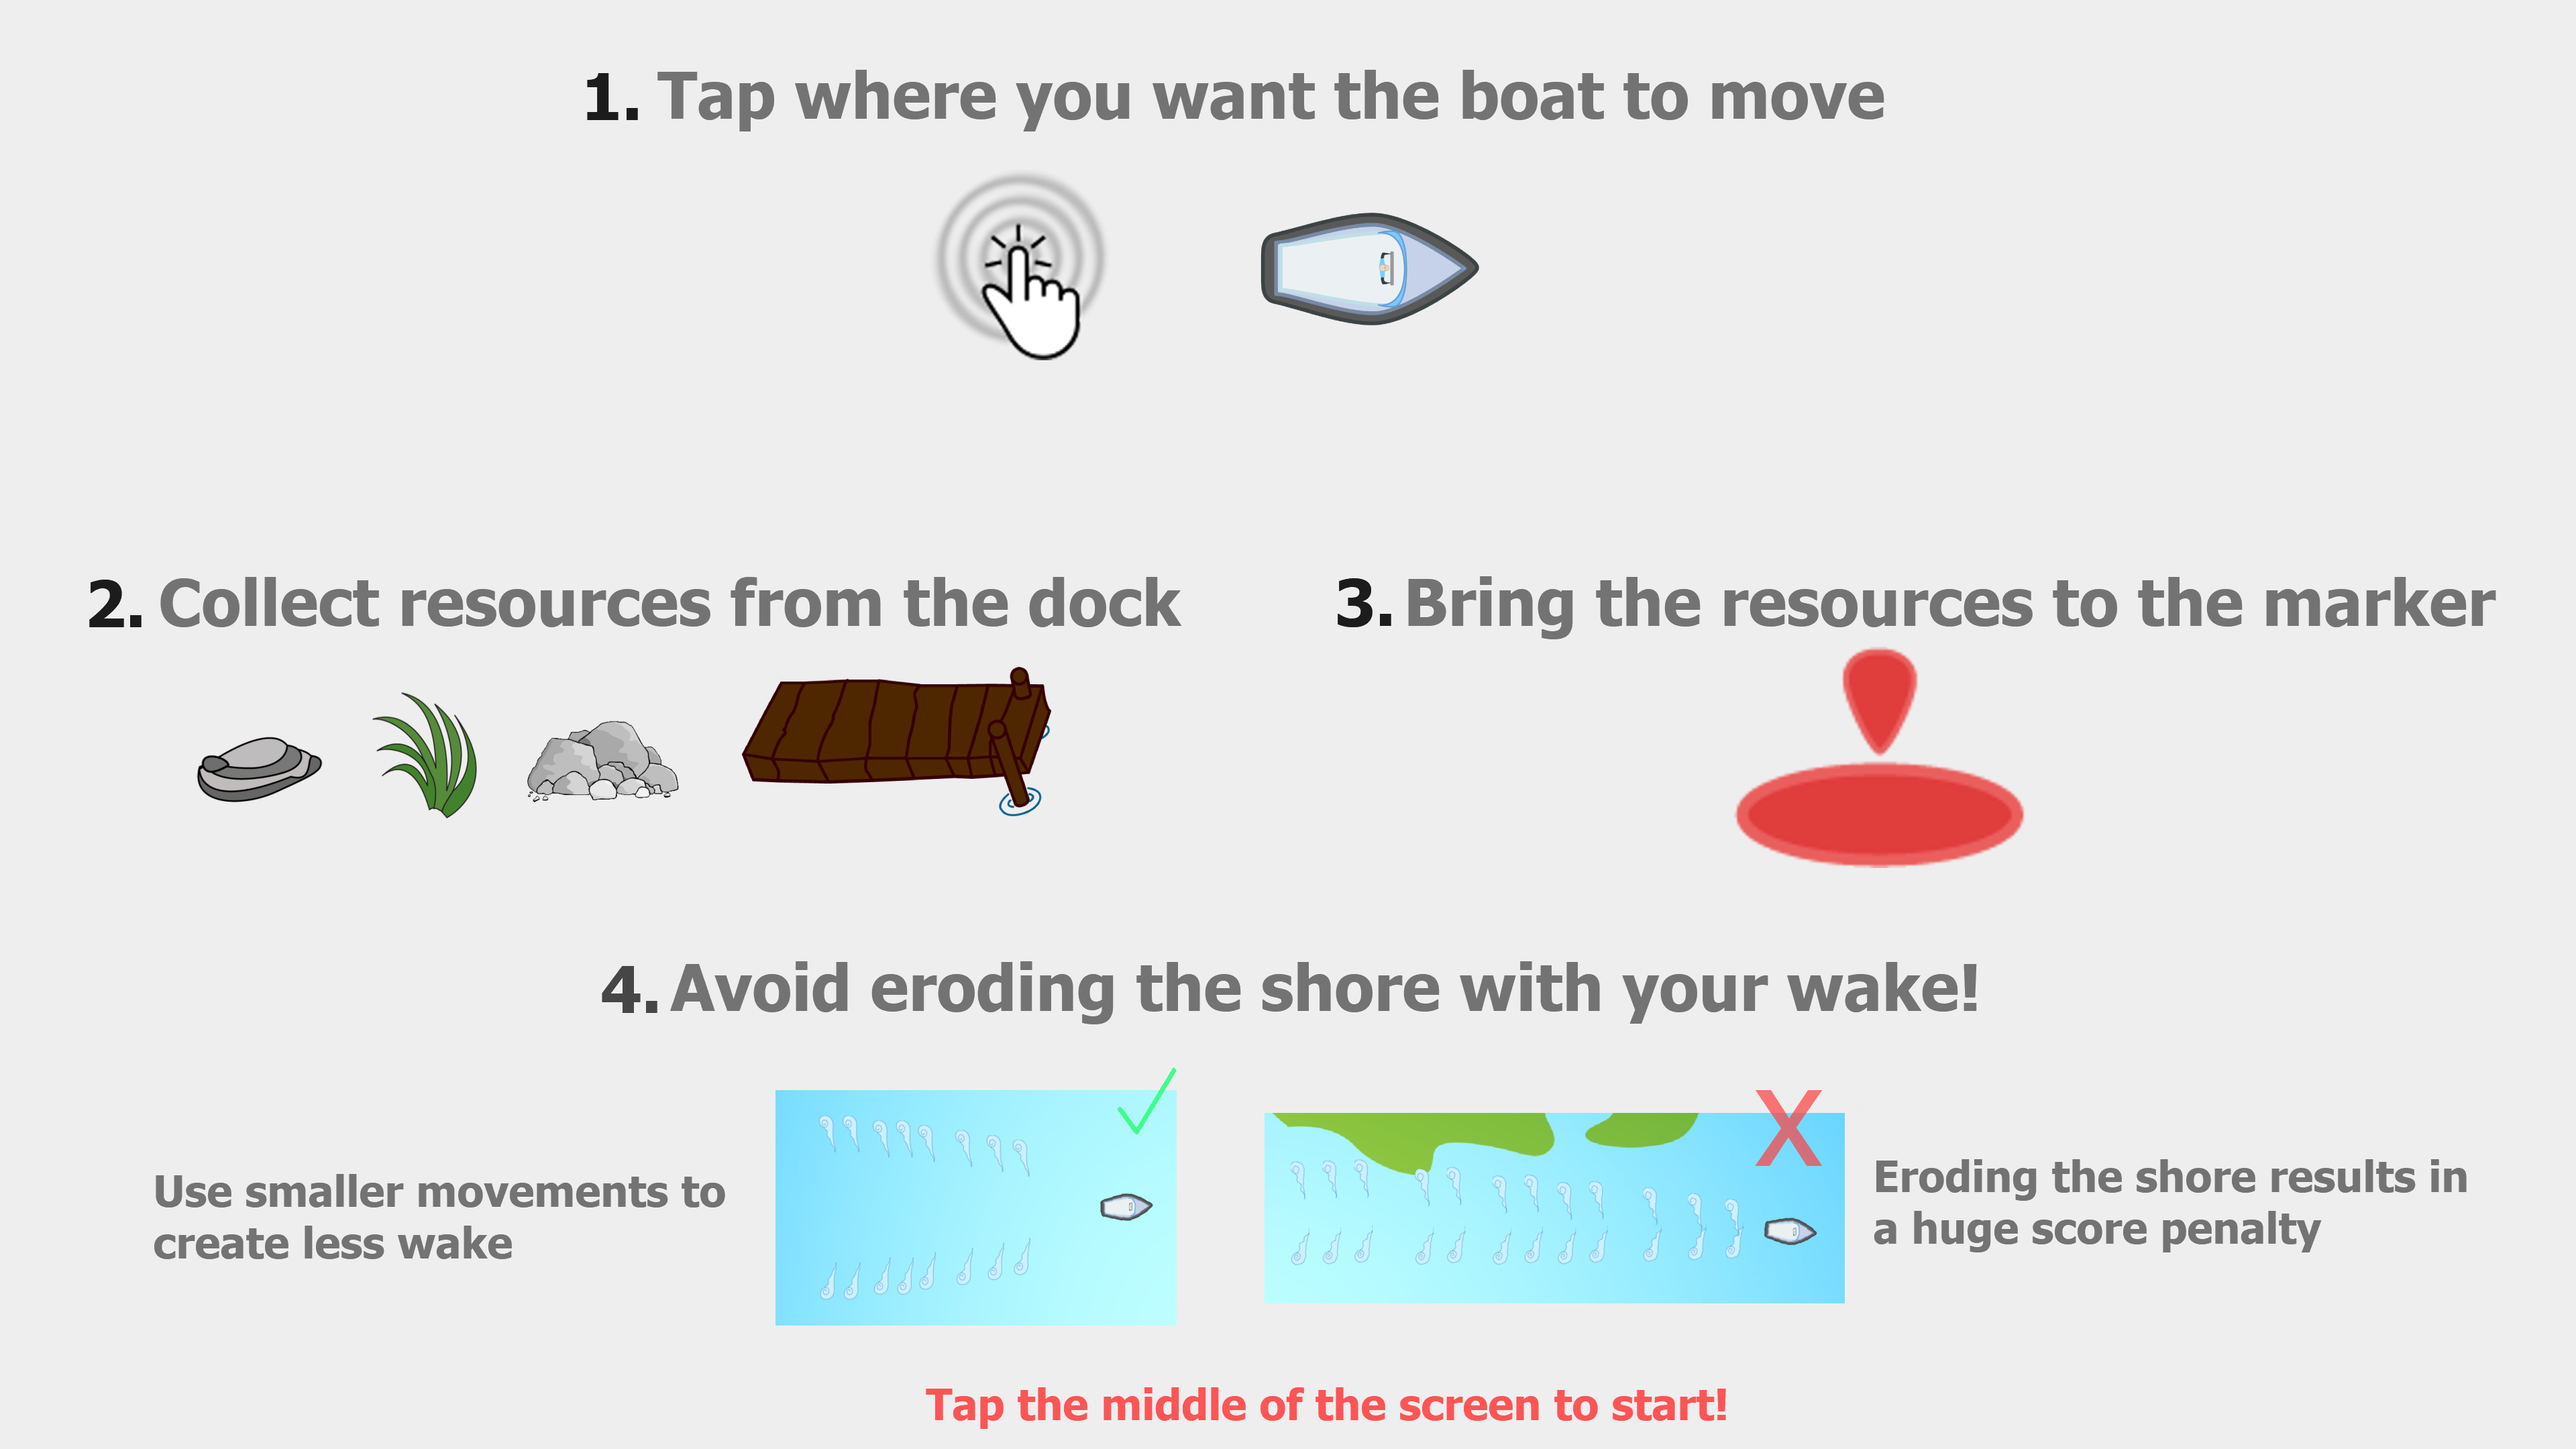
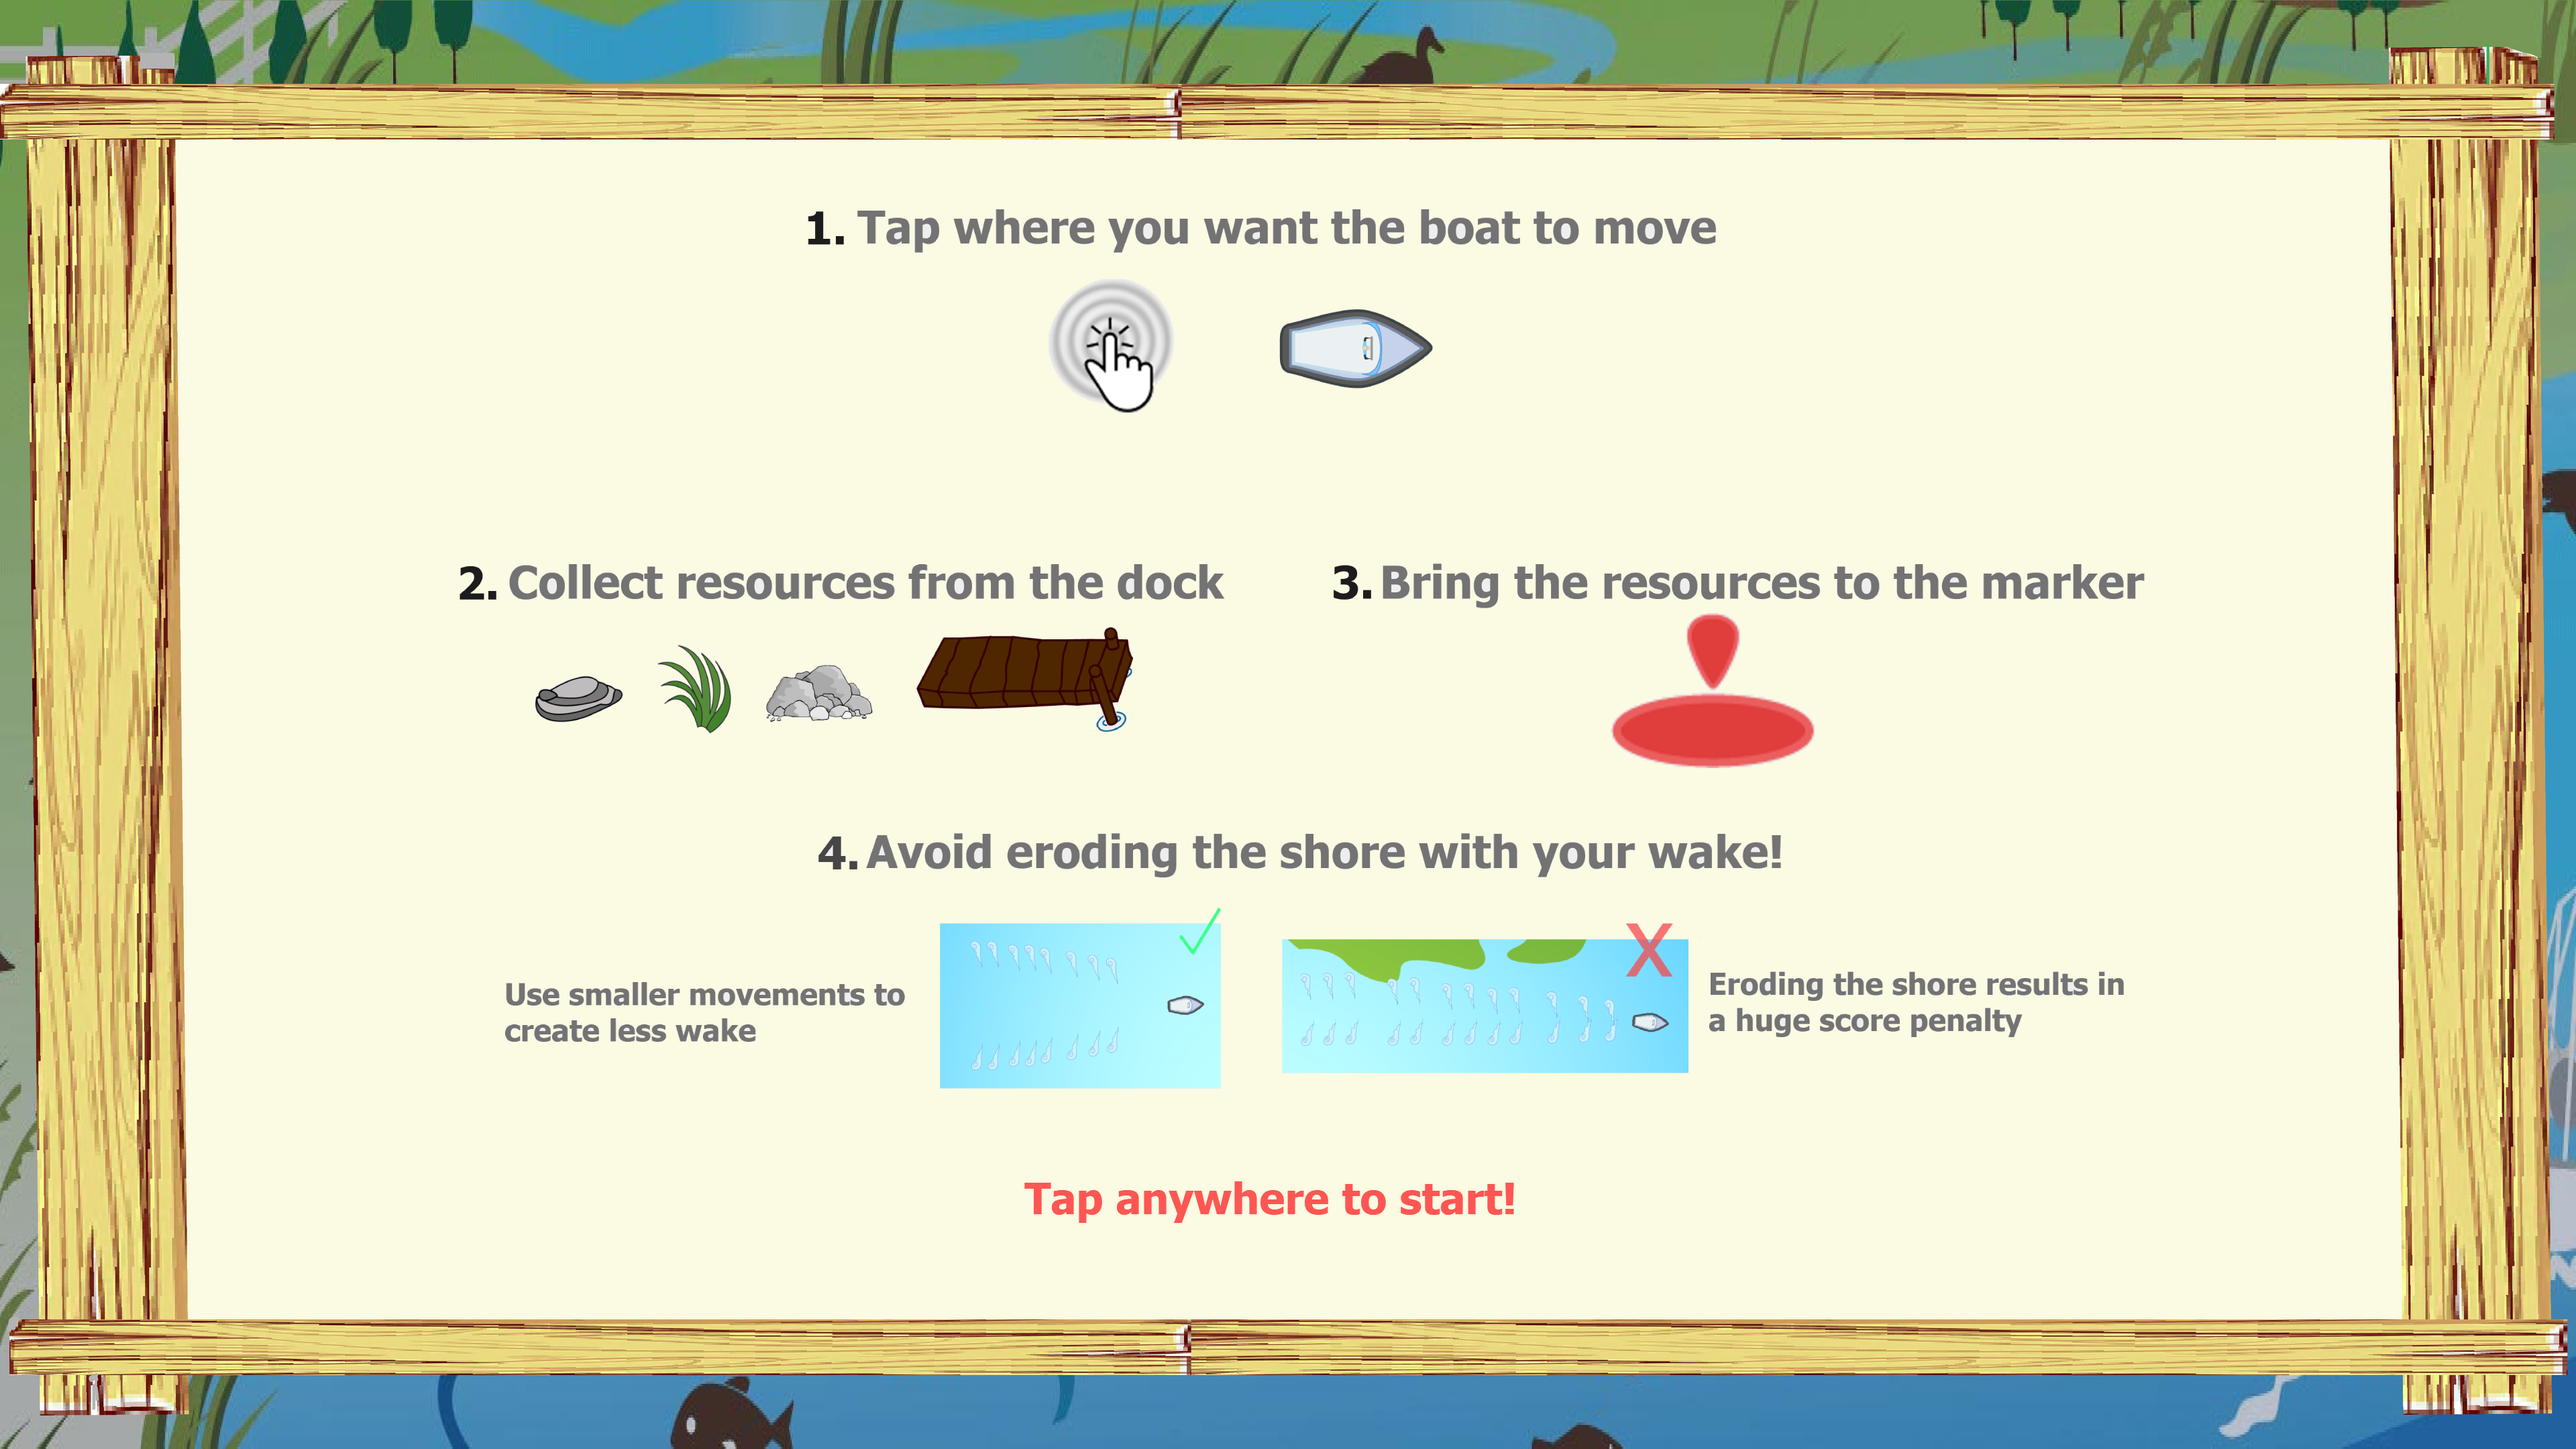
worked on crab game scaling

diff --git a/src/main/java/crabGame/CrabGamePanel.java b/src/main/java/crabGame/CrabGamePanel.java
@@ -13,6 +13,7 @@ import main.java.crabGame.model.CrabGameWorld;
 import main.java.crabGame.model.Question;
 import main.java.crabGame.view.*;
 import main.java.menu.controller.MGView;
+import main.java.menu.enums.IMAGES;
 import main.java.menu.view.MenuScreen;
 
 /**
@@ -24,6 +25,8 @@ public class CrabGamePanel extends MGView {
 	 * 
 	 */
 	private static final long serialVersionUID = 1L;
+
+	public static int qNum = 0;
 
 	/**
 	 * Initializes the GamePanel
@@ -52,24 +55,26 @@ public class CrabGamePanel extends MGView {
 		}
 		// draw question
 		if (CrabController.paused) {
-			g.setFont(g.getFont().deriveFont(g.getFont().getStyle(), 20));
-			Question q = Question.questions.get(0);
+			g.setFont(g.getFont().deriveFont(g.getFont().getStyle(), 30));
+			Question q = Question.questions.get(qNum);
 			String q_str = q.getPrompt();
 			int titleLength = g.getFontMetrics().stringWidth(q_str);
 			int yBoxW = titleLength + 100;
 			int yBoxX = (MenuScreen.frameWidth - titleLength) / 2 - 50;
-			g.setColor(Color.YELLOW);
-			g.fillRect(yBoxX, MenuScreen.frameHeight / 2 - 50, yBoxW, 300);
+			
+			// draw bg
+			g.drawImage(MenuScreen.IMAGE.get(IMAGES.TUT_BG), 0, 0, MenuScreen.frameWidth, MenuScreen.frameHeight, null);
+			
 			g.setColor(Color.BLACK);
 			g.drawString(q_str, (MenuScreen.frameWidth - titleLength) / 2, MenuScreen.frameHeight / 2);
 			// draw possible answers
-			g.setFont(g.getFont().deriveFont(g.getFont().getStyle(), 20));
+			g.setFont(g.getFont().deriveFont(g.getFont().getStyle(), 30));
 			ArrayList<String> ans = q.getAnswers();
 			int offset = 50;
 			for (String s : ans) {
 				titleLength = g.getFontMetrics().stringWidth(s);
-				g.setColor(Color.CYAN);
-				g.fillRect(yBoxX, (MenuScreen.frameHeight / 2 + offset) - 18, yBoxW, 25);
+				//g.setColor(Color.CYAN);
+				//g.fillRect(yBoxX, (MenuScreen.frameHeight / 2 + offset) - 18, yBoxW, 25);
 				g.setColor(Color.BLACK);
 				g.drawString(s, (MenuScreen.frameWidth - titleLength) / 2, MenuScreen.frameHeight / 2 + offset);
 				offset += 50;
@@ -79,21 +84,23 @@ public class CrabGamePanel extends MGView {
 				g.setColor(Color.BLACK);
 				g.drawString("Wrong answer. Try again", (MenuScreen.frameWidth - titleLength) / 2,
 						MenuScreen.frameHeight / 2 + 200);
-			} else if (Question.qaState == 1) {
+			} else if (Question.qaState > 0) {
 				g.drawString("Correct!", (MenuScreen.frameWidth - titleLength) / 2, MenuScreen.frameHeight / 2 + 200);
-				Timer unPause = null;
-				unPause = new Timer(700, new ActionListener() {
-					@Override
-					public void actionPerformed(ActionEvent e) {
-						CrabController.paused = false;
-						Collections.shuffle(Question.questions);	
-						Question.qaState = 0;
-					}
-				});
-				unPause.start();
-				unPause.setRepeats(false);
+				if (Question.qaState == 1) {
+					Timer unPause = null;
+					unPause = new Timer(700, new ActionListener() {
+						@Override
+						public void actionPerformed(ActionEvent e) {
+							CrabController.paused = false;
+							qNum++;
+							Question.qaState = 0;
+						}
+					});
+					Question.qaState = 2;
+					unPause.start();
+					unPause.setRepeats(false);
+				}
 			}
-
 		}
 	}
 

diff --git a/src/main/java/crabGame/view/ContinueScreen.java b/src/main/java/crabGame/view/ContinueScreen.java
@@ -36,75 +36,6 @@ public class ContinueScreen {
 		g.setFont(g.getFont().deriveFont(g.getFont().getStyle(), continueMessageFontSize));
 		int messageLength = g.getFontMetrics().stringWidth(continueMessage);
 		g.drawString(continueMessage, (MenuScreen.frameWidth - messageLength) / 2, MenuScreen.frameHeight / 2);
-//
-//
-//		Question.load(); // Load and shuffle all of the questions
-//
-//		currentQuestion = Question.questions.get(0);
-//
-//		// Draws the semitransparent background
-//		Color questionBackgroundColor = new Color(211, 255, 241, 80);
-//		int questionOverlaySpace = 40;
-//		g.setColor(questionBackgroundColor);
-//		g.fillRect(
-//				CrabGameWorld.WORLD_ORIGIN_X + questionOverlaySpace,
-//				CrabGameWorld.WORLD_ORIGIN_Y + questionOverlaySpace,
-//				CrabGameWorld.WORLD_WIDTH - (2 * questionOverlaySpace),
-//				CrabGameWorld.WORLD_HEIGHT - (2 * questionOverlaySpace));
-//
-//		// Draws the question
-//		int fontSize = 48;
-//		g.setFont(g.getFont().deriveFont(g.getFont().getStyle(), fontSize));
-//
-//		g.setColor(Color.BLACK);
-//
-//
-//		StringCharacterIterator charIterator = new StringCharacterIterator(currentQuestion.getPrompt());
-//		char c = charIterator.first();
-//		int newX;
-//		int index = 0;
-//		ArrayList<String> questionLines = new ArrayList<>();
-//		questionLines.add("");
-//
-//		while (c != StringCharacterIterator.DONE) {
-//			String newString = questionLines.get(index).concat(Character.toString(c));
-//			questionLines.remove(index);
-//			questionLines.add(newString);
-//			newX = 25 + g.getFontMetrics().stringWidth(questionLines.get(index));
-//
-//			if (newX >= CrabGameWorld.WORLD_WIDTH - questionOverlaySpace) {
-//				index++;
-//				questionLines.add("");
-//			}
-//			c = charIterator.next();
-//		}
-//
-//		int yIncrement = 0;
-//
-//		for (String s : questionLines) {
-//			g.drawString(s, 20 + ((CrabGameWorld.WORLD_WIDTH / 2) - (g.getFontMetrics().stringWidth(s)) / 2), 115 + yIncrement);
-//			yIncrement += 45;
-//		}
-//		yIncrement += 15;
-//
-//		g.setFont(g.getFont().deriveFont(g.getFont().getStyle(), 36));
-//
-//		int answerYPos = 115 + yIncrement;
-//
-//		for (String s : currentQuestion.getAnswers()) {
-//			if (getAnswer1Wrong() && s.equals(currentQuestion.getAnswers().get(0))) {
-//				drawWrongImage(g, answerYPos, s);
-//			}
-//			if (getAnswer2Wrong() && s.equals(currentQuestion.getAnswers().get(1))) {
-//				drawWrongImage(g, answerYPos, s);
-//			}
-//			if (getAnswer3Wrong() && s.equals(currentQuestion.getAnswers().get(2))) {
-//				drawWrongImage(g, answerYPos, s);
-//			}
-//			g.drawString(s, 40, answerYPos);
-//			g.setColor(Color.BLACK);
-//			answerYPos += 70;
-//		}
 	}
 
 	static void drawWrongImage(Graphics g, int answerYPos, String s) {

diff --git a/src/main/java/crabGame/model/Friend.java b/src/main/java/crabGame/model/Friend.java
@@ -1,12 +1,14 @@
 package main.java.crabGame.model;
 
+import main.java.menu.view.MenuScreen;
+
 /**
  * Turtles (or other animals) that move across the bottom of the screen with
  * useful hints for the crabbies
  */
 public class Friend extends Mover {
-	static final int FRIEND_HEIGHT = 130;
-	static final int FRIEND_WIDTH = 150;
+	static final int FRIEND_HEIGHT = MenuScreen.frameHeight / 7;
+	static final int FRIEND_WIDTH = MenuScreen.frameWidth / 10;
 	public static int friendCounter = 0;
 	public static int textSize;
 	public static final String[] facts = { "Welcome to Crab Run! Tap the screen to move.",
@@ -22,7 +24,6 @@ public class Friend extends Mover {
 	 */
 	public Friend(int x, int y) {
 		super(x, y, FRIEND_WIDTH, FRIEND_HEIGHT);
-		super.setxVel(-6);
 		// Friends start down in the bottom moveRight corner and move across, carrying a
 		// fun fact along with them
 
@@ -41,6 +42,7 @@ public class Friend extends Mover {
 	@Override
 	void update(long deltaTime) {
 		super.update(deltaTime);
+		super.moveLeft();
 		picNum = ++picNum % 3;
 	}
 

diff --git a/src/main/java/crabGame/controller/CrabGameListeners.java b/src/main/java/crabGame/controller/CrabGameListeners.java
@@ -1,6 +1,7 @@
 package main.java.crabGame.controller;
 
 import main.java.crabGame.CrabController;
+import main.java.crabGame.CrabGamePanel;
 import main.java.crabGame.model.CrabGameWorld;
 import main.java.crabGame.model.Crabby;
 import main.java.crabGame.model.Friend;
@@ -107,8 +108,8 @@ public class CrabGameListeners implements KeyListener, MouseListener, MouseMotio
 				}
 				offset += 50;
 			}
-			String str = Question.questions.get(0).getAnswers().get(ans);
-			if (Question.questions.get(0).isRightAnswer(str)) {
+			String str = Question.questions.get(CrabGamePanel.qNum).getAnswers().get(ans);
+			if (Question.questions.get(CrabGamePanel.qNum).isRightAnswer(str)) {
 				Question.qaState = 1;
 			} else {
 				Question.qaState = -1;

diff --git a/src/main/java/crabGame/model/SaltCloud.java b/src/main/java/crabGame/model/SaltCloud.java
@@ -1,11 +1,13 @@
 package main.java.crabGame.model;
 
+import main.java.menu.view.MenuScreen;
+
 /**
  * Created by Alina on 2017-07-13.
  */
 public class SaltCloud extends Mover {
-	static final int SALT_CLOUD_WIDTH = 100;
-	static final int SALT_CLOUD_HEIGHT = 200;
+	static final int SALT_CLOUD_WIDTH = MenuScreen.frameWidth / 8;
+	static final int SALT_CLOUD_HEIGHT = MenuScreen.frameHeight / 4;
 	final double SALT_CLOUD_VELOCITY = super.movementVelocity;
 	static boolean waveGoingDown = false; // Whether or not the waves as a set are appearing lower and lower on the screen or higher and higher on the screen
 	private static TrailState trailState = TrailState.NORMAL_ENTRY;

diff --git a/src/main/java/crabGame/model/Crabby.java b/src/main/java/crabGame/model/Crabby.java
@@ -3,13 +3,14 @@ package main.java.crabGame.model;
 import java.util.Collections;
 
 import main.java.crabGame.CrabController;
+import main.java.menu.view.MenuScreen;
 
 /**
  * This class constitutes the main playable character in the game
  */
 public class Crabby extends Mover {
-	static final int CRAB_WIDTH_ = 100;
-	static final int CRAB_HEIGHT_ = 50;
+	static final int CRAB_WIDTH_ = MenuScreen.frameWidth / 10;
+	static final int CRAB_HEIGHT_ = MenuScreen.frameHeight / 12;
 	static final int CRAB_LIFE_BASE = 3;
 	private int frame = 0;
 

diff --git a/src/main/java/crabGame/model/Enemy.java b/src/main/java/crabGame/model/Enemy.java
@@ -1,11 +1,13 @@
 package main.java.crabGame.model;
 
+import main.java.menu.view.MenuScreen;
+
 /**
  * Fish (or other animals) that obstruct the crabbies
  */
 public class Enemy extends Mover {
-	public static final int ENEMY_WIDTH = 125;
-	public static final int ENEMY_HEIGHT = 66;
+	public static final int ENEMY_WIDTH = MenuScreen.frameWidth / 13;
+	public static final int ENEMY_HEIGHT = MenuScreen.frameHeight / 9;
 	private int frame = 0;
 	public final double ENEMY_VELOCITY = super.movementVelocity;
 

diff --git a/src/main/java/menu/enums/IMAGES.java b/src/main/java/menu/enums/IMAGES.java
@@ -65,6 +65,7 @@ public enum IMAGES {
 	MENU_CUBE4("/main/resources/images/tutcube4.png"),
 	TURTLE("/main/resources/images/turtle.png"),
 	QUESTION_MARK("/main/resources/images/QuestionMark.png"),
+	TUT_BG("/main/resources/images/tutorialBackground.png"),
 	// The following are the new ending faces for the dice game
 	DICE_ALLIGATOR("/main/resources/images/alligatorDie.png"),
 	DICE_BOAT("/main/resources/images/boatDie.png"),
